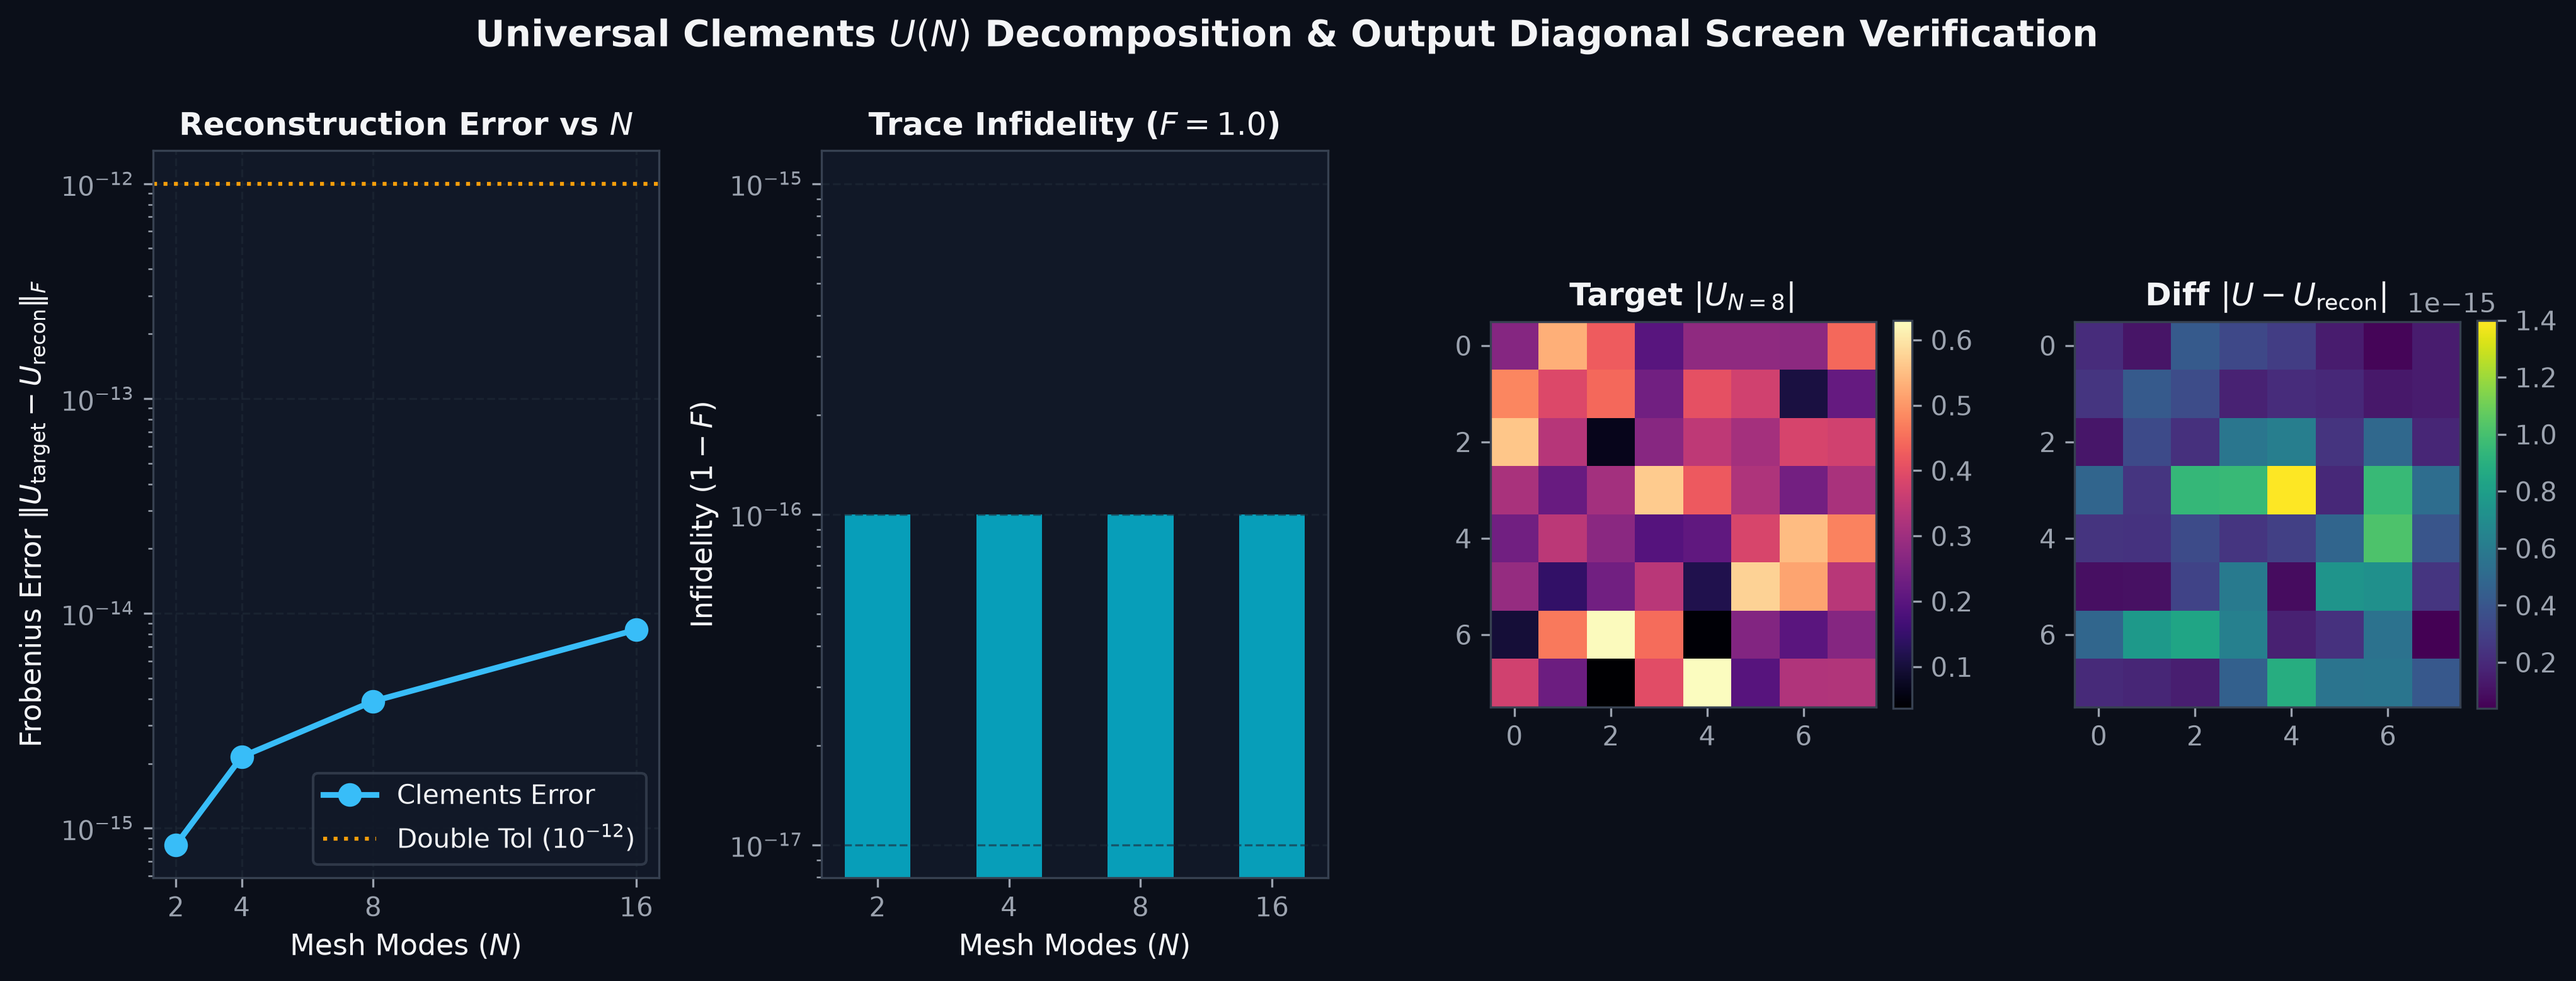
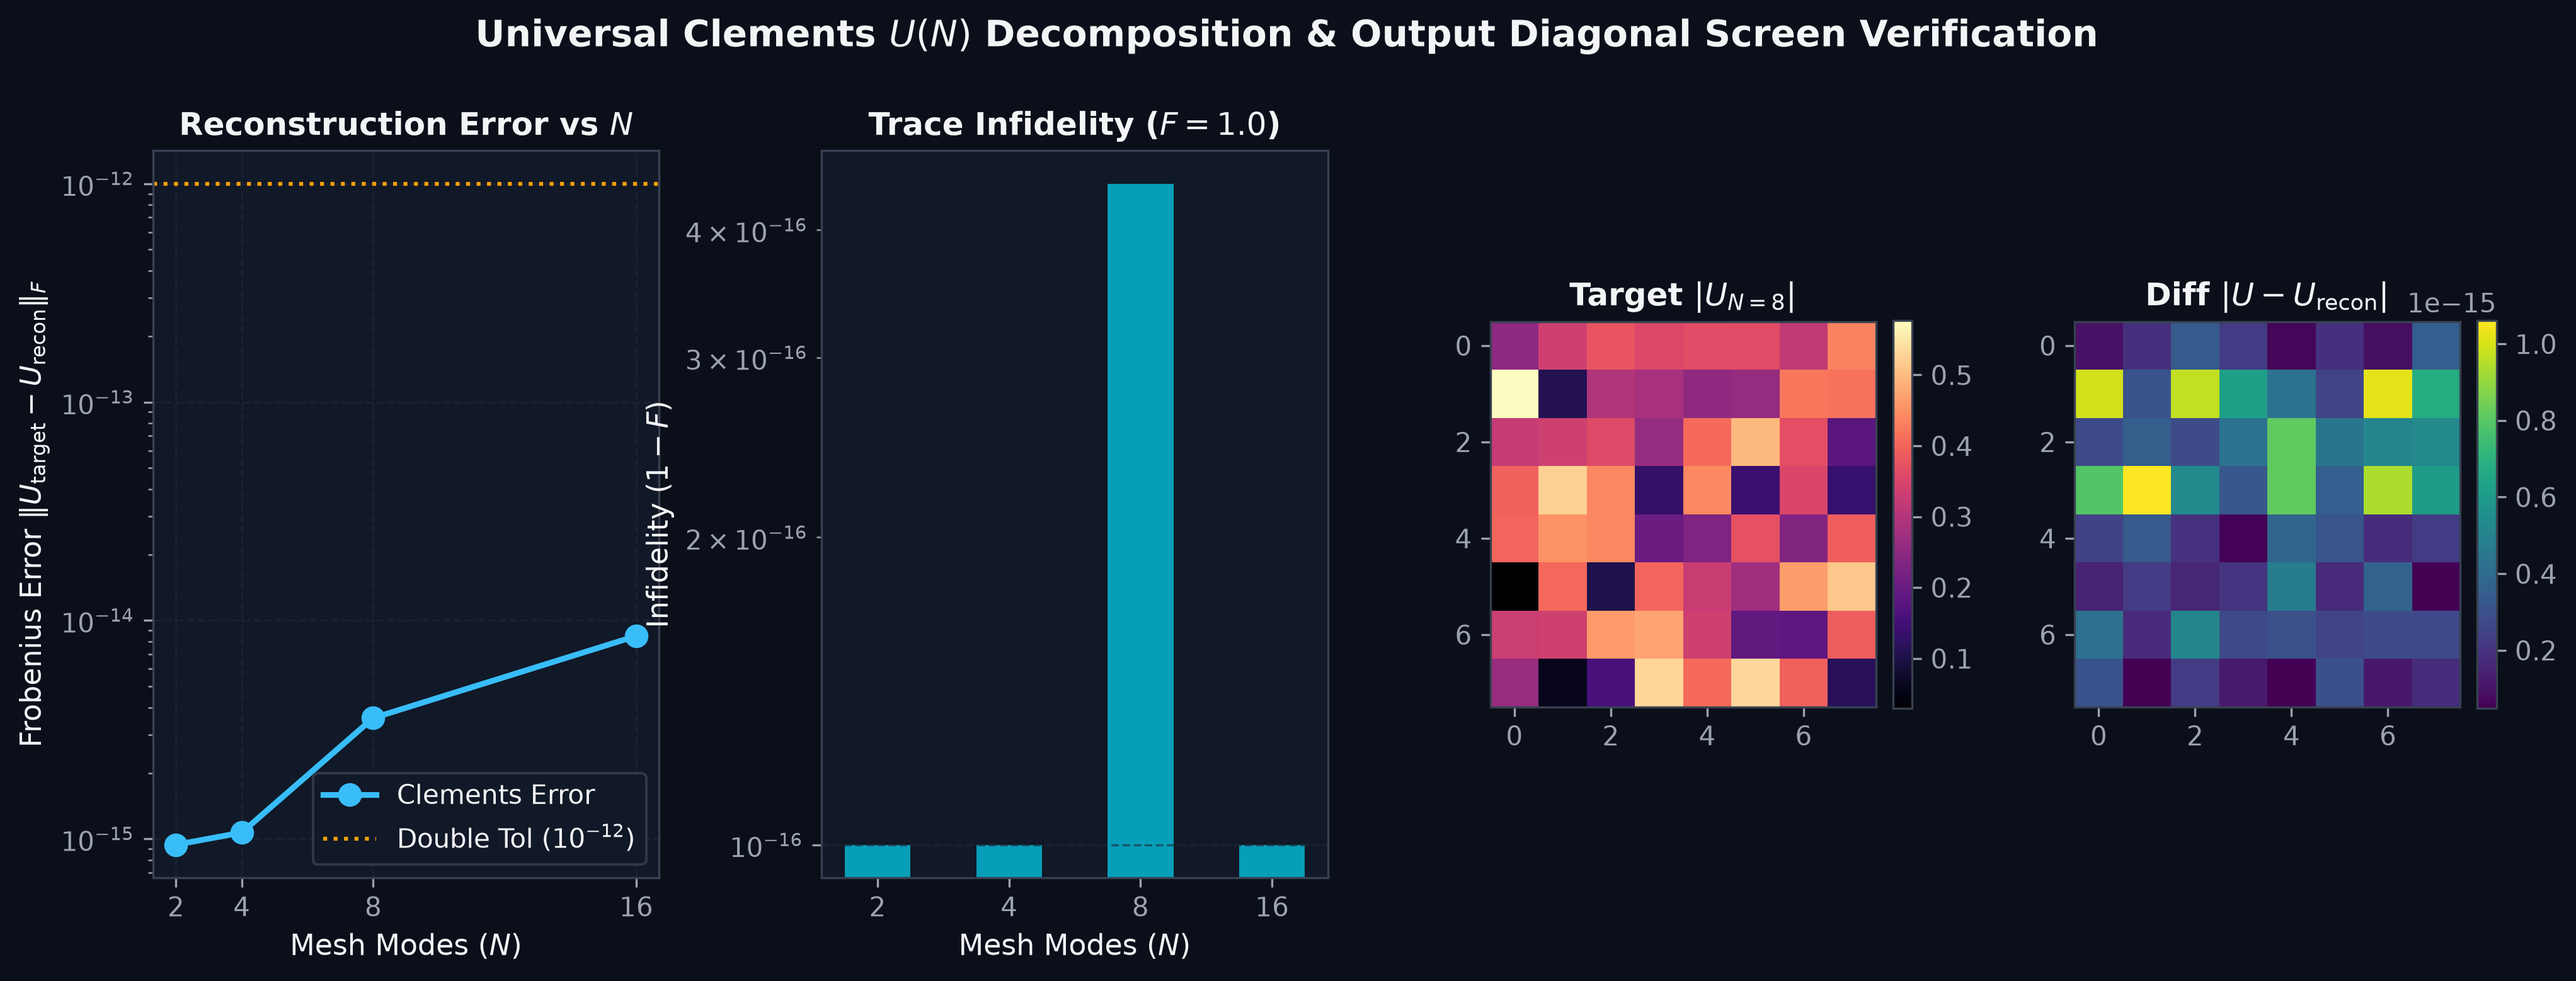
fixed 02 plot

diff --git a/tests/generate_test_plots.py b/tests/generate_test_plots.py
@@ -114,26 +114,50 @@ def generate_all_plots(output_dir="reports/plots"):
     sample_emat = None
 
     for n in modes_list:
-        cfg_ideal = PhotonicConfig(n_modes=n, ideal_mode=True, device=device)
+        cfg_ideal = PhotonicConfig(
+            n_modes=n,
+            ideal_mode=True,
+            device=device,
+            dtype=torch.float64,
+            complex_dtype=torch.complex128
+        )
         twin_ideal = PhotonicMeshDigitalTwin(cfg_ideal)
-        theta = torch.rand(twin_ideal.total_mzis, device=device) * math.pi
-        phi = torch.rand(twin_ideal.total_mzis, device=device) * (2 * math.pi)
-        diag = torch.rand(n, device=device) * (2 * math.pi)
-        e_in = (torch.randn(n, device=device) + 1.0j * torch.randn(n, device=device)).to(cfg_ideal.complex_dtype)
+        theta = torch.rand(twin_ideal.total_mzis, device=device, dtype=torch.float64) * math.pi
+        phi = torch.rand(twin_ideal.total_mzis, device=device, dtype=torch.float64) * (2 * math.pi)
+        diag = torch.rand(n, device=device, dtype=torch.float64) * (2 * math.pi)
+        e_in = (torch.randn(n, device=device, dtype=torch.float64) + 1.0j * torch.randn(n, device=device, dtype=torch.float64)).to(cfg_ideal.complex_dtype)
 
         e_prop = twin_ideal.propagate_field(e_in, theta, phi, diag_phases=diag)
         t_mat = twin_ideal.compute_transfer_matrix(theta, phi, diag_phases=diag)
         e_matmul = torch.matmul(t_mat, e_in)
         ideal_diffs.append(torch.max(torch.abs(e_prop - e_matmul)).item())
 
-        cfg_lossy = PhotonicConfig(n_modes=n, ideal_mode=False, enable_loss=True,
-                                   enable_coupler_errors=False, enable_dispersion=False,
-                                   enable_physical_routing=False, enable_bend_loss=False,
-                                   enable_backreflection=False, enable_polarization=False,
-                                   device=device)
+        cfg_lossy = PhotonicConfig(
+            n_modes=n,
+            ideal_mode=False,
+            enable_loss=True,
+            loss_per_stage_db=0.15,
+            loss_std_db=0.0,
+            enable_coupler_errors=False,
+            enable_dispersion=False,
+            enable_physical_routing=False,
+            enable_bend_loss=False,
+            enable_backreflection=False,
+            enable_polarization=False,
+            enable_quantization=False,
+            enable_phase_jitter=False,
+            enable_thermal_crosstalk=False,
+            enable_nonlinear_optics=False,
+            enable_noise=False,
+            laser_linewidth=0.0,
+            grating_coupler_loss_db=3.0,
+            device=device,
+            dtype=torch.float64,
+            complex_dtype=torch.complex128
+        )
         twin_lossy = PhotonicMeshDigitalTwin(cfg_lossy)
-        e_prop_l = twin_lossy.propagate_field(e_in, theta, phi, diag_phases=diag)
-        t_mat_l = twin_lossy.compute_transfer_matrix(theta, phi, diag_phases=diag)
+        e_prop_l = twin_lossy.propagate_field(e_in, theta, phi, diag_phases=diag, include_packaging=True)
+        t_mat_l = twin_lossy.compute_transfer_matrix(theta, phi, diag_phases=diag, include_packaging=True)
         e_matmul_l = torch.matmul(t_mat_l, e_in)
         lossy_diffs.append(torch.max(torch.abs(e_prop_l - e_matmul_l)).item())
 

diff --git a/src/models/digital_twin.py b/src/models/digital_twin.py
@@ -206,7 +206,8 @@ class PhotonicMeshDigitalTwin(nn.Module):
         wavelength: Optional[Union[float, torch.Tensor]] = None,
         override_eps1: Optional[torch.Tensor] = None,
         override_eps2: Optional[torch.Tensor] = None,
-        override_phi_intrinsic: Optional[torch.Tensor] = None
+        override_phi_intrinsic: Optional[torch.Tensor] = None,
+        include_packaging: bool = False
     ) -> torch.Tensor:
         """
         Synthesizes the full cumulative N x N optical transfer matrix T_PIC.
@@ -332,6 +333,11 @@ class PhotonicMeshDigitalTwin(nn.Module):
             D_fp = torch.diag_embed(H_fp)
             T_cumul = torch.matmul(D_fp, T_cumul)
 
+        # Apply packaging grating couplers (input and output fiber couplings) if requested
+        if include_packaging and not self.ideal_mode:
+            T_cumul = self.photodetector.apply_grating_coupler(T_cumul, wavelength)
+            T_cumul = self.photodetector.apply_grating_coupler(T_cumul, wavelength)
+
         return T_cumul
 
     def propagate_field(
@@ -343,7 +349,8 @@ class PhotonicMeshDigitalTwin(nn.Module):
         wavelength: Optional[Union[float, torch.Tensor]] = None,
         override_eps1: Optional[torch.Tensor] = None,
         override_eps2: Optional[torch.Tensor] = None,
-        override_phi_intrinsic: Optional[torch.Tensor] = None
+        override_phi_intrinsic: Optional[torch.Tensor] = None,
+        include_packaging: bool = True
     ) -> torch.Tensor:
         """
         Propagates complex optical field vector E_in stage-by-stage through the mesh.
@@ -358,6 +365,7 @@ class PhotonicMeshDigitalTwin(nn.Module):
             override_eps1: Optional tensor overriding coupler_eps1.
             override_eps2: Optional tensor overriding coupler_eps2.
             override_phi_intrinsic: Optional tensor overriding phi_intrinsic.
+            include_packaging: Whether to apply input/output grating coupler losses and phase jitter.
 
         Returns:
             E_out: Transmitted complex field of shape (..., N).
@@ -370,7 +378,7 @@ class PhotonicMeshDigitalTwin(nn.Module):
 
         # Clone input field and apply input grating coupler & laser phase noise
         E_curr = E_in.to(self.complex_dtype).clone()
-        if not self.ideal_mode:
+        if not self.ideal_mode and include_packaging:
             E_curr = self.photodetector.apply_grating_coupler(E_curr, wavelength)
             E_curr = self.photodetector.apply_laser_phase_noise(E_curr)
 
@@ -480,7 +488,7 @@ class PhotonicMeshDigitalTwin(nn.Module):
             E_curr = self.backreflection_model(E_curr, wavelength=wavelength)
 
         # Apply output grating coupler
-        if not self.ideal_mode:
+        if not self.ideal_mode and include_packaging:
             E_curr = self.photodetector.apply_grating_coupler(E_curr, wavelength)
 
         return E_curr

diff --git a/tests/test_matrix_field_equivalence.py b/tests/test_matrix_field_equivalence.py
@@ -98,12 +98,60 @@ def test_field_matrix_equivalence_lossy():
         assert diff < 1e-12, f"Field vs matrix divergence in lossy mode for N={n_modes}: diff = {diff}"
 
 
+def test_field_matrix_equivalence_packaged():
+    """Verify that propagate_field and compute_transfer_matrix match under full packaging (grating coupler) loss."""
+    for n_modes in [4, 8]:
+        cfg = PhotonicConfig(
+            n_modes=n_modes,
+            ideal_mode=False,
+            enable_loss=True,
+            loss_per_stage_db=0.20,
+            loss_std_db=0.0,
+            enable_coupler_errors=False,
+            enable_physical_routing=False,
+            enable_dispersion=False,
+            enable_quantization=False,
+            enable_thermal_crosstalk=False,
+            enable_polarization=False,
+            enable_noise=False,
+            enable_bend_loss=False,
+            enable_backreflection=False,
+            enable_nonlinear_optics=False,
+            laser_linewidth=0.0,
+            grating_coupler_loss_db=3.0,
+            dtype=torch.float64,
+            complex_dtype=torch.complex128
+        )
+        twin = PhotonicMeshDigitalTwin(cfg)
+
+        batch_size = 4
+        gen = torch.Generator(device=cfg.device)
+        gen.manual_seed(300 + n_modes)
+
+        theta = torch.rand(twin.total_mzis, generator=gen, device=cfg.device, dtype=torch.float64) * math.pi
+        phi = torch.rand(twin.total_mzis, generator=gen, device=cfg.device, dtype=torch.float64) * 2 * math.pi
+        diag = torch.rand(n_modes, generator=gen, device=cfg.device, dtype=torch.float64) * 2 * math.pi
+
+        T_mat = twin.compute_transfer_matrix(theta, phi, diag_phases=diag, include_packaging=True)
+
+        E_in = (torch.randn(batch_size, n_modes, generator=gen, device=cfg.device, dtype=torch.float64) +
+                1.0j * torch.randn(batch_size, n_modes, generator=gen, device=cfg.device, dtype=torch.float64)).to(cfg.complex_dtype)
+
+        E_prop = twin.propagate_field(E_in, theta, phi, diag_phases=diag, include_packaging=True)
+        E_mat = torch.matmul(T_mat.unsqueeze(0), E_in.unsqueeze(-1)).squeeze(-1)
+
+        diff = torch.max(torch.norm(E_prop - E_mat, dim=-1)).item()
+        print(f"[Packaged N={n_modes:02d}] Max Field vs Matrix Diff: {diff:.3e}")
+        assert diff < 1e-12, f"Field vs matrix divergence in packaged mode for N={n_modes}: diff = {diff}"
+
+
 if __name__ == "__main__":
     print("=" * 70)
     print("RUNNING FIELD-VS-MATRIX EQUIVALENCE TESTS")
     print("=" * 70)
     test_field_matrix_equivalence_ideal()
     test_field_matrix_equivalence_lossy()
+    test_field_matrix_equivalence_packaged()
     print("=" * 70)
     print("[ALL FIELD-VS-MATRIX EQUIVALENCE TESTS PASSED]")
     print("=" * 70)
